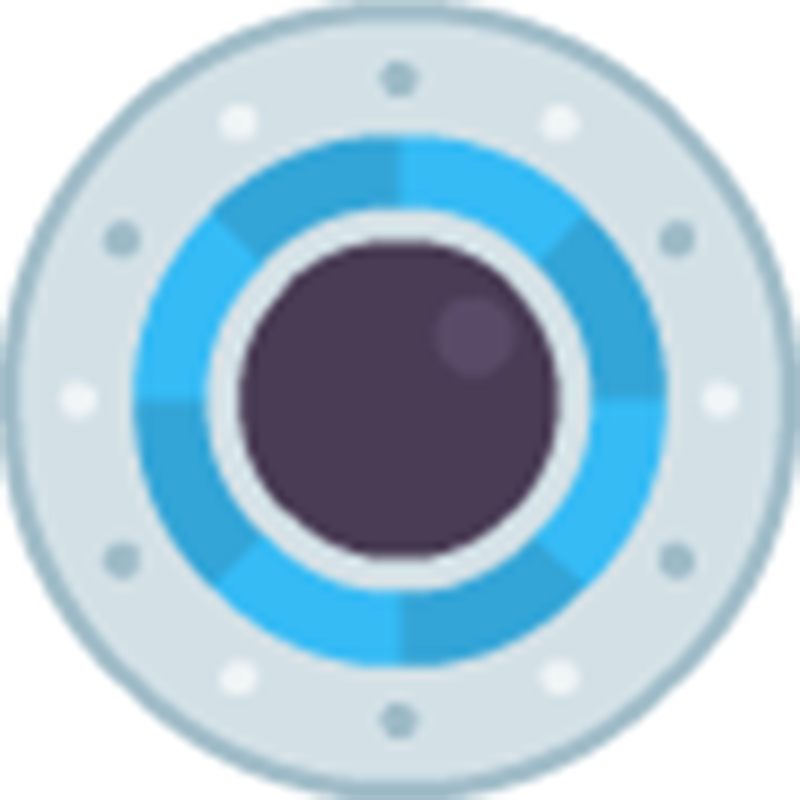
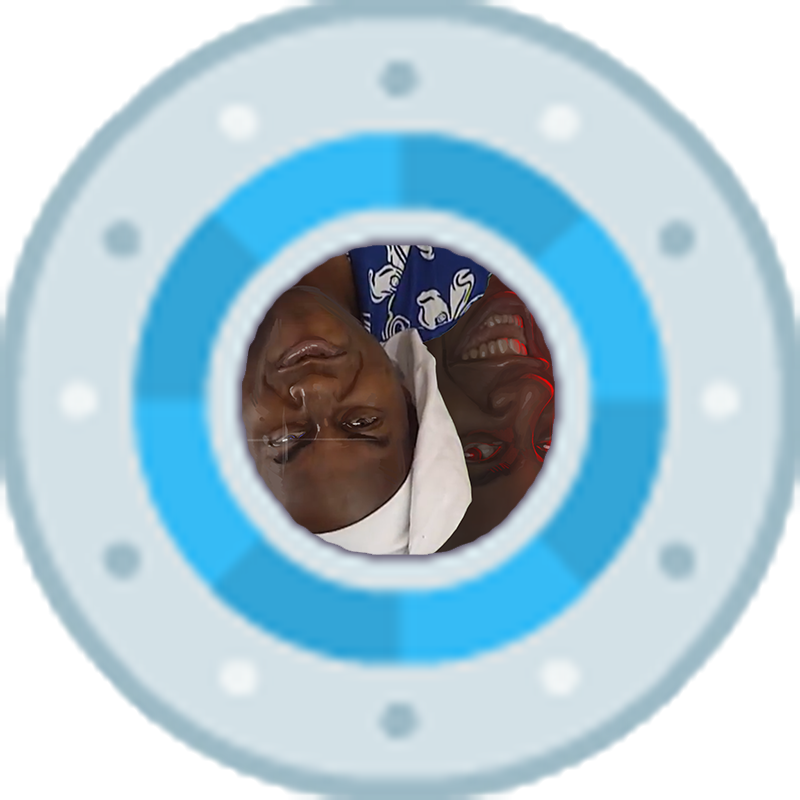
WIP first boss

diff --git a/Type/Objects/Bosses/BossA.cs b/Type/Objects/Bosses/BossA.cs
@@ -1,27 +1,125 @@
 using OpenTK;
 using System;
+using AmosShared.Audio;
+using AmosShared.Base;
+using Type.Controllers;
+using Type.Data;
 using Type.Objects.Enemies;
+using Type.Objects.Projectiles;
 
 namespace Type.Objects.Bosses
 {
     public class BossA : BaseEnemy
     {
+        /// <summary> Point on screen where the boss stops </summary>
+        private Vector2 _StopPosition;
+
         /// <inheritdoc />
         public BossA(String assetPath, Vector2 spawnPos, Single rotation, Vector2 direction, Single speed, TimeSpan fireRate, Int32 hitPoints) : base(assetPath, spawnPos, rotation, direction, speed, fireRate, hitPoints)
         {
             PointValue = 5000;
+
+            Position += new Vector2(_Sprite.Width / 3, 0);
+            _StopPosition = new Vector2(Renderer.Instance.TargetDimensions.X / 4, 0);
+
+            _Explosion.Scale = new Vector2(9,9);
+            _Explosion.Offset = new Vector2( _Explosion.Size.X / 2 * _Explosion.Scale.X, _Explosion.Size.Y / 2 * _Explosion.Scale.Y);
+
+            _IsBoss = true;
         }
 
         /// <inheritdoc />
         protected override void Fire()
         {
+            if (!_IsHostile) return;
 
+            Vector2 bulletDirection = _DirectionTowardsPlayer;
+            if (bulletDirection != Vector2.Zero) bulletDirection.Normalize();
+
+            new Bullet("Content/Graphics/enemybullet.png", Position, bulletDirection, 1050, Rotation, false, new Vector4(255, 0, 255, 1));
+            new Bullet("Content/Graphics/enemybullet.png", new Vector2(Position.X, Position.Y - 100), bulletDirection, 1050, Rotation, false, new Vector4(255, 0, 255, 1));
+            new Bullet("Content/Graphics/enemybullet.png", new Vector2(Position.X, Position.Y  + 100), bulletDirection, 1050, Rotation, false, new Vector4(255, 0, 255, 1));
+
+            _IsWeaponLocked = true;
+            new AudioPlayer("Content/Audio/laser4.wav", false, AudioManager.Category.EFFECT, 1);
         }
 
         /// <inheritdoc />
         public override void Update(TimeSpan timeTilUpdate)
         {
+            if (_IsMoving)
+            {
+                _TimeSinceLastFired = TimeSpan.Zero;
+
+                Position += _MoveDirection * _Speed * (Single)timeTilUpdate.TotalSeconds;
+
+                if (Position.X <= _StopPosition.X)
+                {
+                    IsAlive = true;
+                    _IsMoving = false;
+                }
+            }
+
+            if (IsAlive)
+            {
+                if (_IsSoundPlaying) // TODO FIXME Work around to limit sounds created
+                {
+                    _TimeSinceLastSound += timeTilUpdate;
+                    if (_TimeSinceLastSound >= _HitSoundInterval)
+                    {
+                        _IsSoundPlaying = false;
+                        _TimeSinceLastSound = TimeSpan.Zero;
+                    }
+                }
+
+                if (!_IsWeaponLocked)
+                {
+                    Fire();
+                }
+                else
+                {
+                    _TimeSinceLastFired += timeTilUpdate;
+                    if (_TimeSinceLastFired >= FireRate)
+                    {
+                        _IsWeaponLocked = false;
+                        _TimeSinceLastFired = TimeSpan.Zero;
+                    }
+                }
+            }
+
             base.Update(timeTilUpdate);
+        }
+
+        /// <inheritdoc />
+        public override void Destroy()
+        {
+
+            GameStats.Instance.EnemiesKilled++;
+
+            IsAlive = false;
+
+            if (_IsDestroyed)
+            {
+                _Explosion.AddFrameAction((anim) =>
+                {
+                    Dispose();
+                    foreach (Action action in OnDestroyedByPlayer)
+                    {
+                        action?.Invoke();
+                    }
+                }, 8);
+                _Sprite.Visible = false;
+                _Explosion.Visible = true;
+                _Explosion.Playing = true;
+            }
+            else
+            {
+                _Explosion.RemoveAllFrameActions();
+                OnOutOfBounds?.Invoke();
+                Dispose();
+            }
+
+            PositionRelayer.Instance.RemoveRecipient(this);
         }
     }
 }

diff --git a/Type/Objects/Enemies/BaseEnemy.cs b/Type/Objects/Enemies/BaseEnemy.cs
@@ -18,23 +18,18 @@ namespace Type.Objects.Enemies
     public abstract class BaseEnemy : GameObject, IHitable, IPositionRecipient
     {
         /// <summary> Animation of an explosion, played on death </summary>
-        private readonly AnimatedSprite _Explosion;
+        protected readonly AnimatedSprite _Explosion;
         /// <summary> How long to wait before playing the hit sound</summary>
-        private readonly TimeSpan _HitSoundInterval = TimeSpan.FromSeconds(0.2f); // TODO FIXME Work around to stop so many sounds playing
+        protected readonly TimeSpan _HitSoundInterval = TimeSpan.FromSeconds(0.2f); // TODO FIXME Work around to stop so many sounds playing
 
         /// <summary> Time since the last bullet was fired </summary>
-        private TimeSpan _TimeSinceLastFired;
+        protected TimeSpan _TimeSinceLastFired;
+        /// <summary> Firerate of the enemy </summary>
+        protected TimeSpan FireRate { get; set; }
         /// <summary> How long since the last hit occured </summary>
-        private TimeSpan _TimeSinceLastSound; // TODO FIXME Work around to stop so many sounds playing
+        protected TimeSpan _TimeSinceLastSound; // TODO FIXME Work around to stop so many sounds playing
         /// <summary> Whether a sound is playing </summary>
-        private Boolean _IsSoundPlaying; // TODO FIXME Work around to stop so many sounds playing
-        /// <summary> Amount of times the enemy can be hit before being destroyed </summary>
-        private Int32 _HitPoints;
-
-        /// <summary> movement speed of the enemy </summary>
-        protected Single _Speed;
-        /// <summary> Direction the enemy is moving </summary>
-        protected Vector2 _MoveDirection;
+        protected Boolean _IsSoundPlaying; // TODO FIXME Work around to stop so many sounds playing
         /// <summary> Whether the enemy is moving </summary>
         protected Boolean _IsMoving;
         /// <summary> Whether firing is allowed </summary>
@@ -43,12 +38,18 @@ namespace Type.Objects.Enemies
         protected Boolean _IsHostile;
         /// <summary> Whether the enemy has been detsroyed by the player </summary>
         protected Boolean _IsDestroyed;
+        /// <summary> Whether this enemy is a boss </summary>
+        protected Boolean _IsBoss;
+        /// <summary> Direction the enemy is moving </summary>
+        protected Vector2 _MoveDirection;
         /// <summary> The players current position </summary>
         protected Vector2 _PlayerPosition;
         /// <summary> Relative direction to the player from this enemy </summary>
         protected Vector2 _DirectionTowardsPlayer;
-        /// <summary> Firerate of the enemy </summary>
-        protected TimeSpan FireRate { get; set; }
+        /// <summary> Amount of times the enemy can be hit before being destroyed </summary>
+        protected Int32 _HitPoints;
+        /// <summary> movement speed of the enemy </summary>
+        protected Single _Speed;
 
         /// <summary> Whether the hitbox is a circular </summary>
         public Boolean IsCircleHitBox { get; private set; }
@@ -131,8 +132,8 @@ namespace Type.Objects.Enemies
         private void UpdateRotation()
         {
             _DirectionTowardsPlayer = _PlayerPosition - Position;
-            //Rotation = (Single)(Math.Atan2(1, 0) - Math.Atan2(_DirectionTowardsPlayer.Y, _DirectionTowardsPlayer.X));
-            Rotation = (Single) Math.Atan2(_DirectionTowardsPlayer.Y, _DirectionTowardsPlayer.X);
+
+            Rotation = (Single)Math.Atan2(_DirectionTowardsPlayer.Y, _DirectionTowardsPlayer.X);
         }
 
         /// <summary>
@@ -225,6 +226,8 @@ namespace Type.Objects.Enemies
         {
             base.Update(timeTilUpdate);
 
+            if (_IsBoss) return;
+
             if (IsAlive)
             {
                 if (_IsSoundPlaying) // TODO FIXME Work around to limit sounds created
@@ -251,6 +254,7 @@ namespace Type.Objects.Enemies
                     }
                 }
             }
+
 
             if (!_IsMoving) return;
 

diff --git a/Type/Objects/Enemies/EnemyFactory.cs b/Type/Objects/Enemies/EnemyFactory.cs
@@ -5,6 +5,7 @@ using AmosShared.Interfaces;
 using OpenTK;
 using Type.Controllers;
 using Type.Data;
+using Type.Objects.Bosses;
 using Type.Scenes;
 
 namespace Type.Objects.Enemies
@@ -92,6 +93,11 @@ namespace Type.Objects.Enemies
                 case 2:
                     {
                         enemy = new EnemyC("Content/Graphics/enemy4.png", _CurrentWave.SpawnPositions[_DataIndex], 0, new Vector2(-1, 0), 600, TimeSpan.FromSeconds(0.8), 12);
+                        break;
+                    }
+                case 20:
+                    {
+                        enemy = new BossA("Content/Graphics/Bosses/boss1.png", _CurrentWave.SpawnPositions[_DataIndex], 0, new Vector2(-1, 0), 300, TimeSpan.FromSeconds(0.8), 1000);
                         break;
                     }
                 default:

diff --git a/Type/Scenes/GameScene.cs b/Type/Scenes/GameScene.cs
@@ -63,8 +63,8 @@ namespace Type.Scenes
 
         public GameScene()
         {
-            CurrentLevel = 1;
-            _MaxLevel = 8;
+            CurrentLevel = 9;
+            _MaxLevel = 9;
 
             _BackgroundFar = new ScrollingBackground(100, "Content/Graphics/stars-1.png");
             _BackgroundNear = new ScrollingBackground(200, "Content/Graphics/stars-2.png");
@@ -192,7 +192,7 @@ namespace Type.Scenes
         /// </summary>
         private void OnPlayerDeath()
         {
-            _EnemySpawner.Reset();
+             _EnemySpawner.Reset();
             _LifeMeter.LoseLife();
 
             if (_LifeMeter.PlayerLives <= 0 && !IsGameOver)
